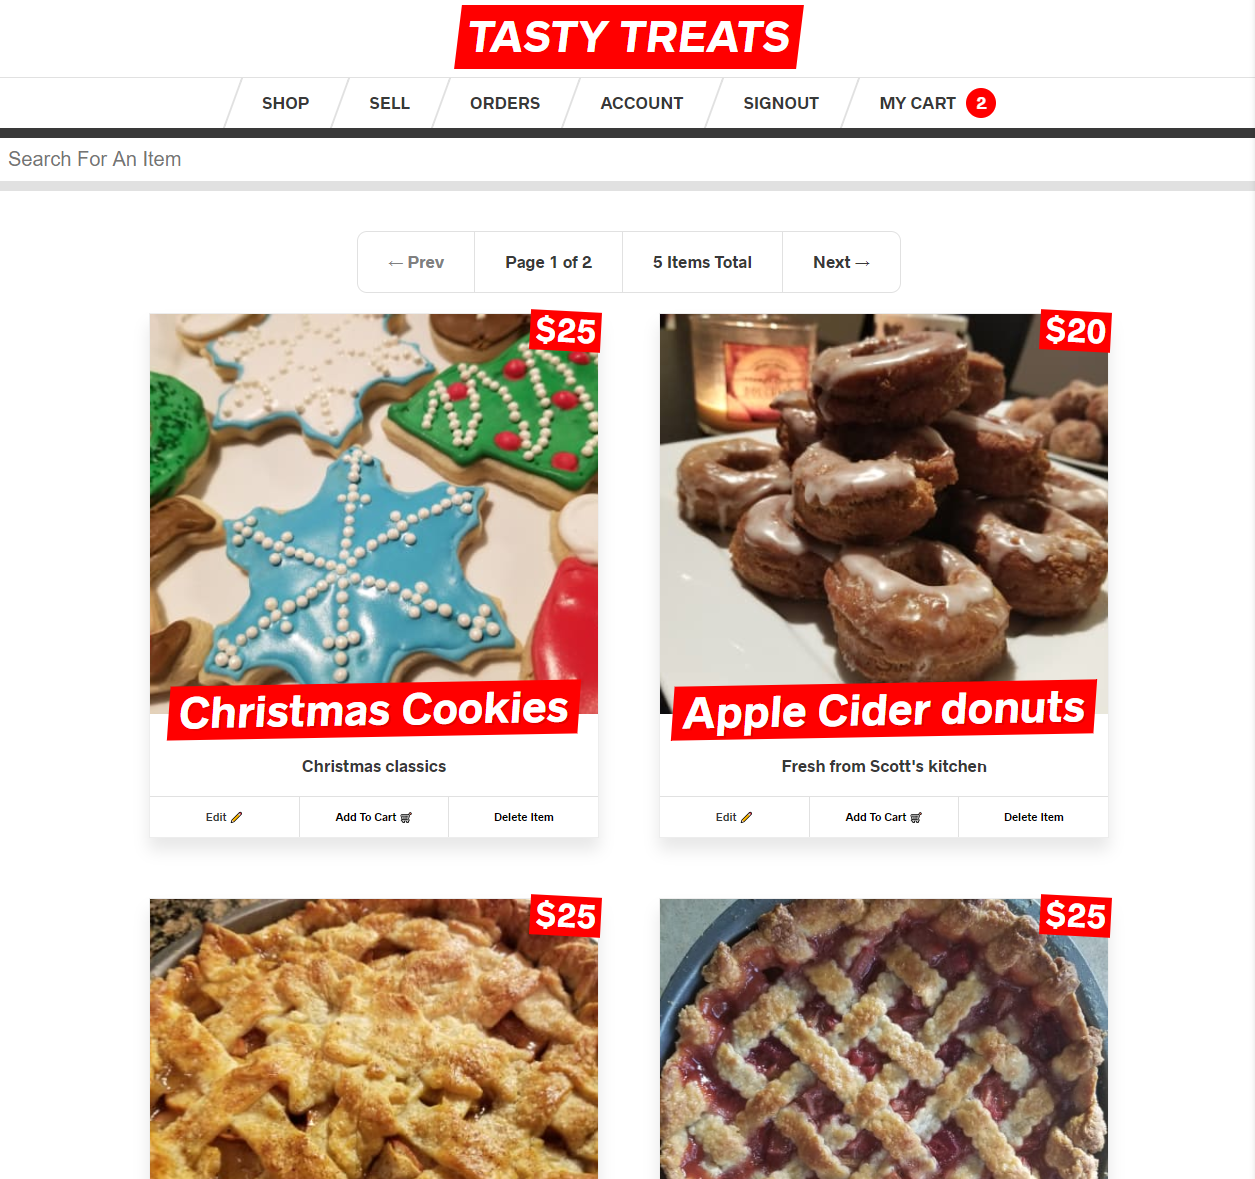
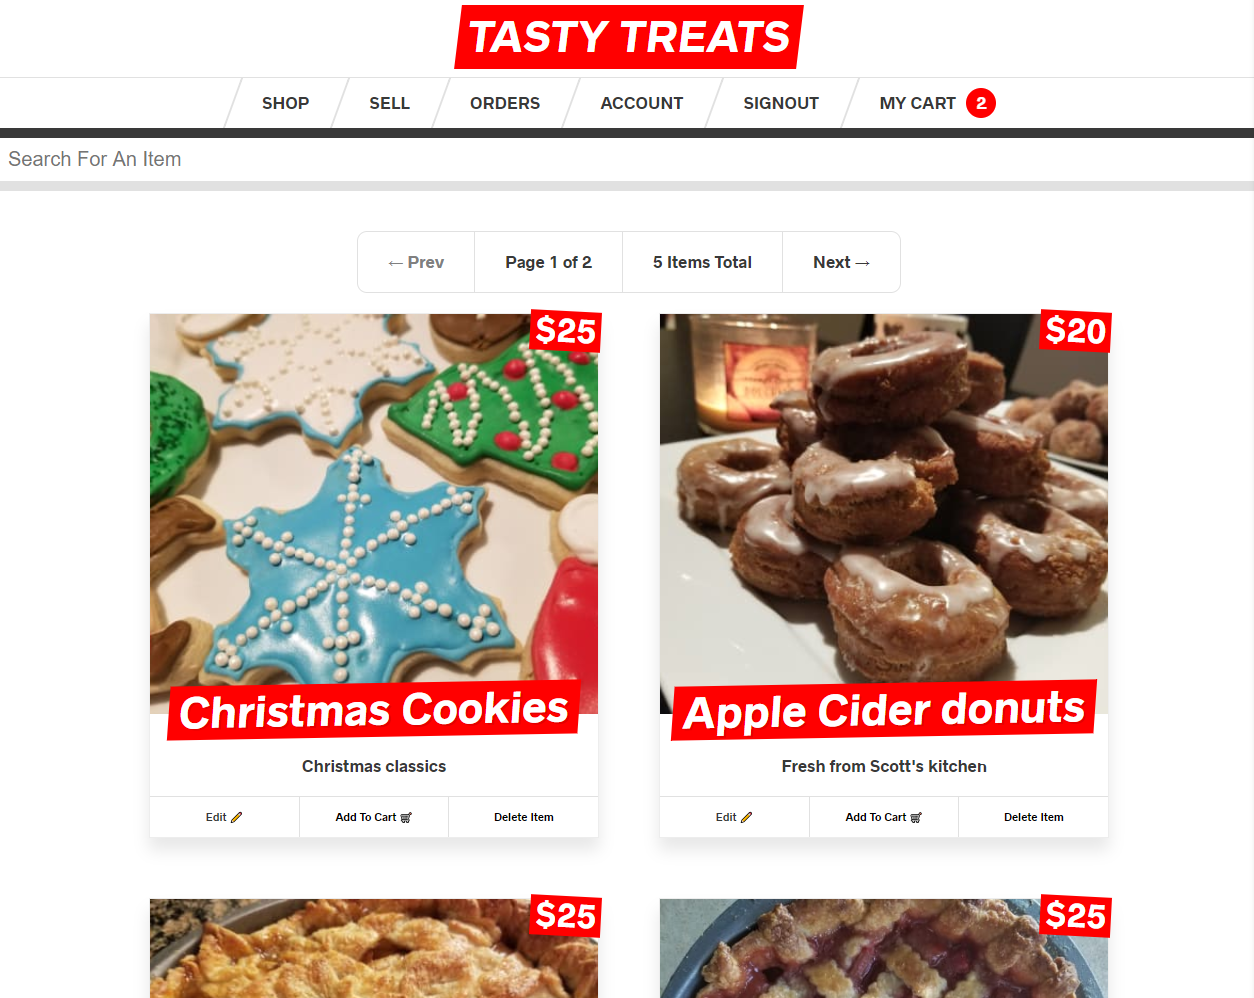
added screenshot to readme

diff --git a/readme.md b/readme.md
@@ -2,6 +2,8 @@
 
 Web app built from [Advanced React & GraphQL](https://advancedreact.com) course by [Wes Bos](https://WesBos.com). Very fun course. Highly recommended.
 
+![Screenshot](https://raw.githubusercontent.com/sschottler/Advanced-React/master/tastytreats.PNG)
+
 ## Frontend:
 
 - React
